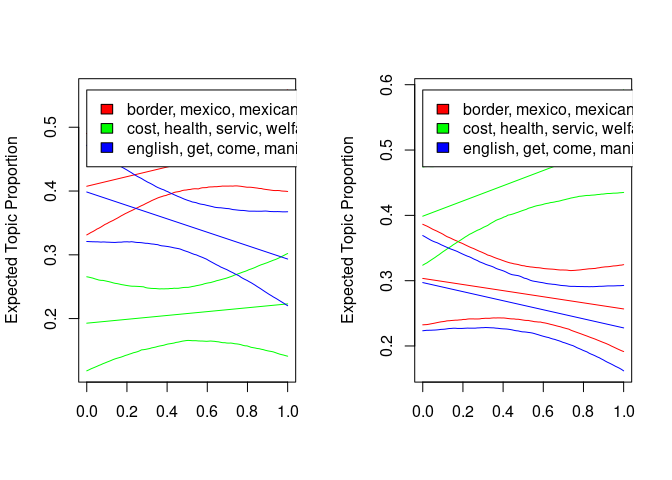
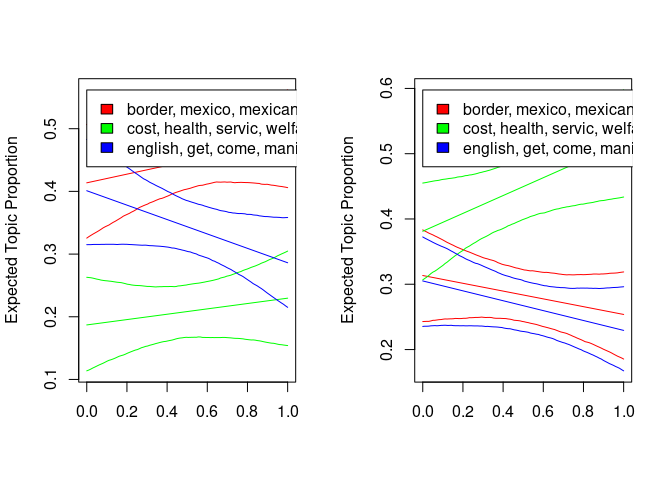
Fixed a comment

diff --git a/README.md b/README.md
@@ -38,26 +38,26 @@ effect <- extract.estimateEffect(prep, "treatment", model = gadarianFit, method 
 
 print(effect)
 #>          method topic covariate covariate.value  estimate  std.error
-#> 1 pointestimate     1 treatment               1 0.2778767 0.02292685
-#> 2 pointestimate     1 treatment               0 0.4411198 0.02215475
-#> 3 pointestimate     2 treatment               1 0.4619813 0.02438323
-#> 4 pointestimate     2 treatment               0 0.2101236 0.02243251
-#> 5 pointestimate     3 treatment               1 0.2596650 0.01931604
-#> 6 pointestimate     3 treatment               0 0.3496585 0.02176095
+#> 1 pointestimate     1 treatment               1 0.2813203 0.02110291
+#> 2 pointestimate     1 treatment               0 0.4427874 0.02045515
+#> 3 pointestimate     2 treatment               1 0.4555024 0.02129567
+#> 4 pointestimate     2 treatment               0 0.2089355 0.02167457
+#> 5 pointestimate     3 treatment               1 0.2625156 0.01904945
+#> 6 pointestimate     3 treatment               0 0.3476877 0.01947305
 #>   ci.level  ci.lower  ci.upper                       label
-#> 1     0.95 0.2344831 0.3227297 Topic 1(Covariate Level: 1)
-#> 2     0.95 0.3977314 0.4828091 Topic 1(Covariate Level: 1)
-#> 3     0.95 0.4137318 0.5080871 Topic 2(Covariate Level: 1)
-#> 4     0.95 0.1653362 0.2532897 Topic 2(Covariate Level: 1)
-#> 5     0.95 0.2222134 0.2975350 Topic 3(Covariate Level: 1)
-#> 6     0.95 0.3045596 0.3908082 Topic 3(Covariate Level: 1)
+#> 1     0.95 0.2399911 0.3236230 Topic 1(Covariate Level: 1)
+#> 2     0.95 0.4035731 0.4831275 Topic 1(Covariate Level: 1)
+#> 3     0.95 0.4136588 0.4969822 Topic 2(Covariate Level: 1)
+#> 4     0.95 0.1666202 0.2512425 Topic 2(Covariate Level: 1)
+#> 5     0.95 0.2251021 0.2995389 Topic 3(Covariate Level: 1)
+#> 6     0.95 0.3085736 0.3848827 Topic 3(Covariate Level: 1)
 ```
 
 You can then use the results however you like. This is especially helpful if you want to plot it for yourself when the included plot functions doesnt cut it. For example:
 
 ``` r
 
-## This time, let the treatment effect vary (linearly) by pid_rep.
+## This time, lets estimate treatment effect as a function of party id. We can than get an idea of whether the treatment effect vary for people with different ids.
 prep <- estimateEffect(formula = 1:3 ~ treatment + pid_rep + treatment:pid_rep,
                        stmobj = gadarianFit,
                        metadata = gadarian)
